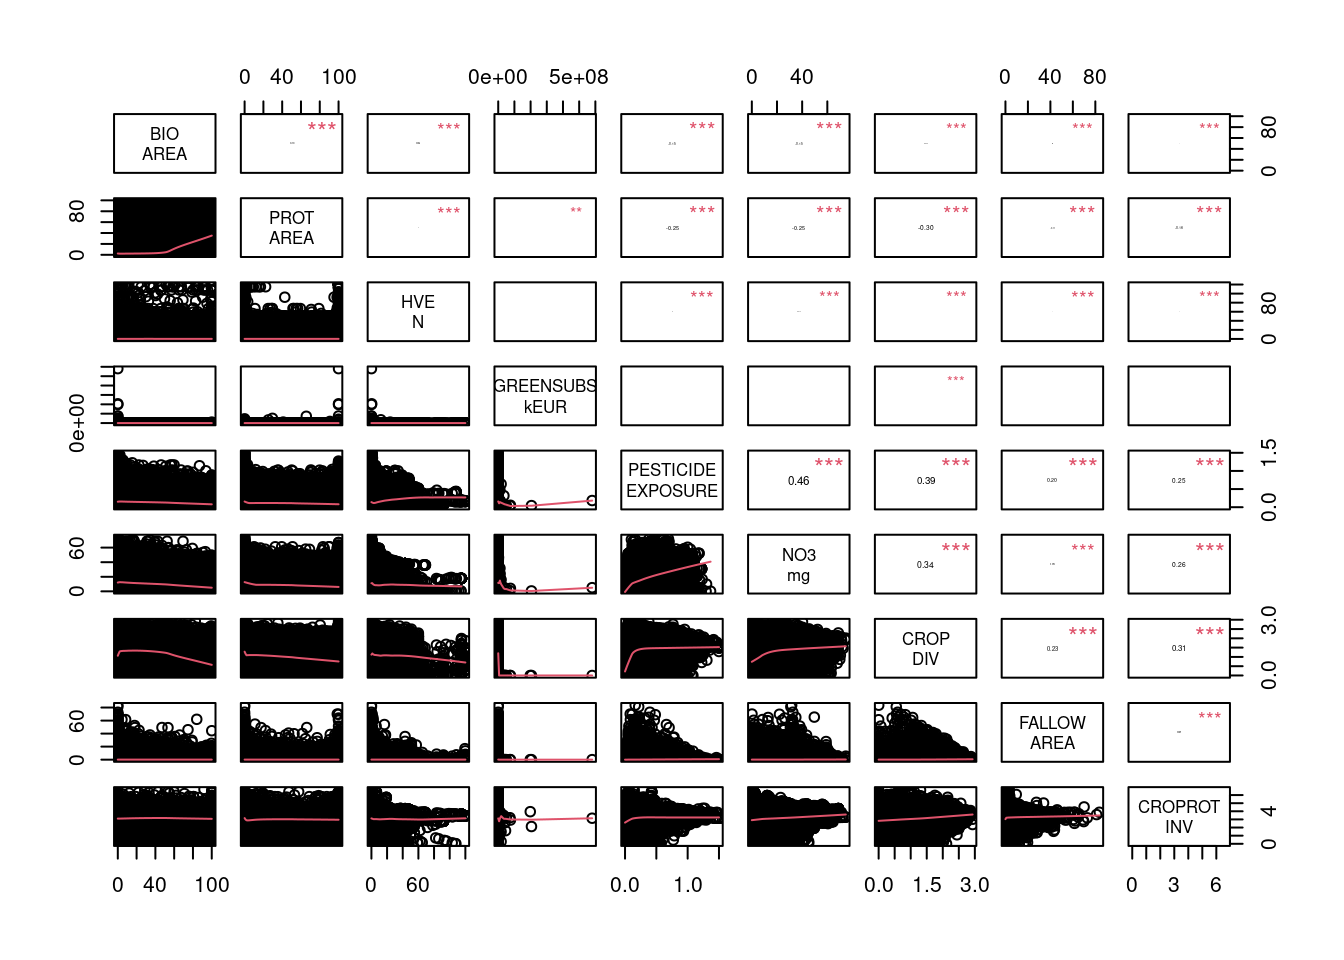
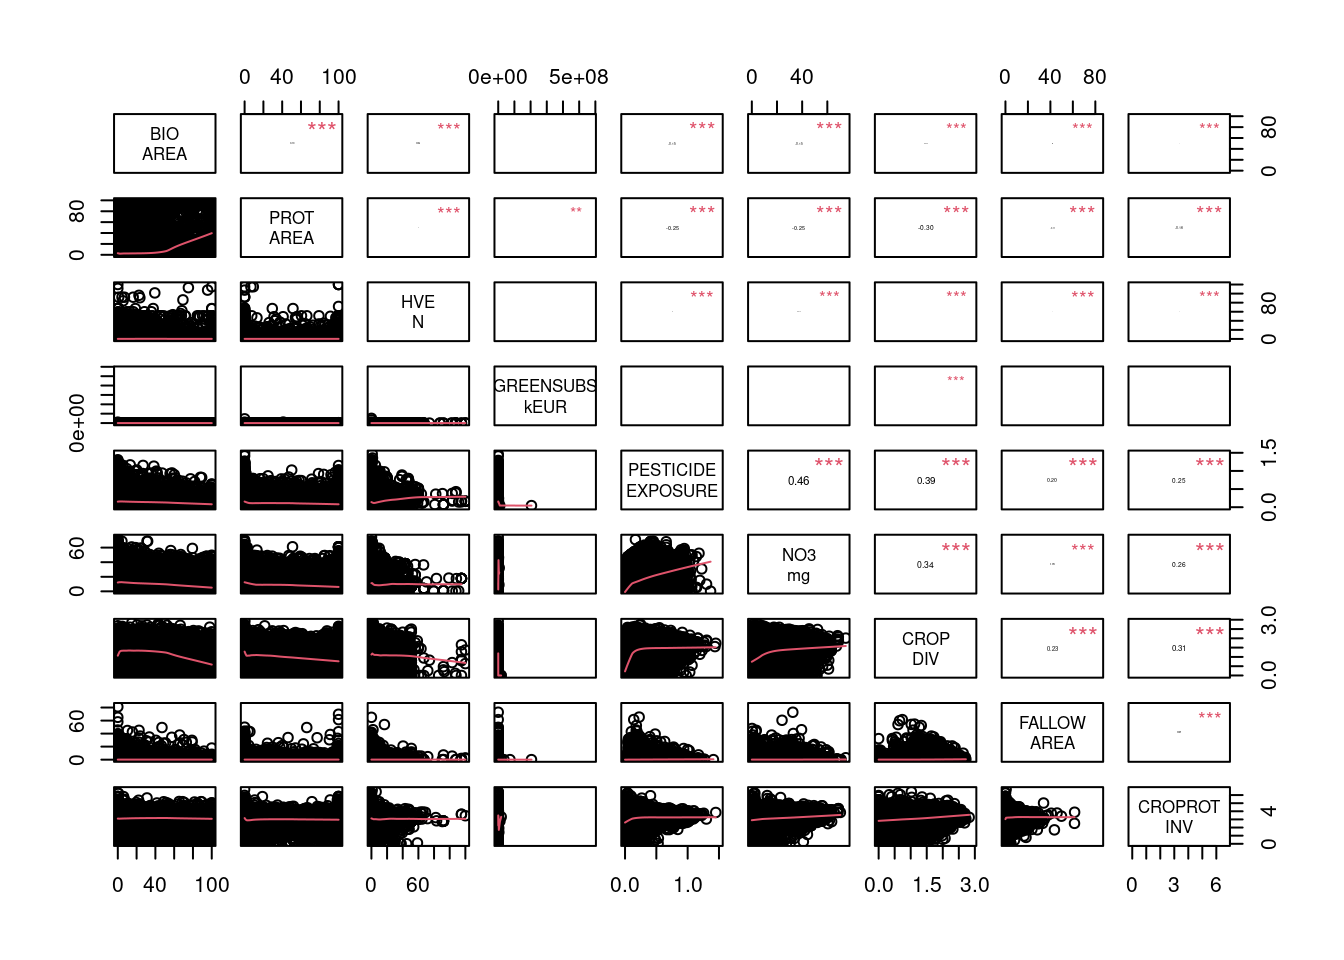
improve 04_political_stringency

diff --git a/docs/analysis/04_political_stringency.html b/docs/analysis/04_political_stringency.html
@@ -7,7 +7,7 @@
 <meta name="viewport" content="width=device-width, initial-scale=1.0, user-scalable=yes">
 
 <meta name="author" content="Romain Frelat">
-<meta name="dcterms.date" content="2026-06-29">
+<meta name="dcterms.date" content="2026-07-06">
 
 <title>Summary of the political stringency variables</title>
 <style>
@@ -119,7 +119,7 @@ ul.task-list li input[type="checkbox"] {
     <div>
     <div class="quarto-title-meta-heading">Published</div>
     <div class="quarto-title-meta-contents">
-      <p class="date">June 29, 2026</p>
+      <p class="date">July 6, 2026</p>
     </div>
   </div>
   
@@ -311,144 +311,96 @@ Figure&nbsp;4: Correlation among megatrends per maille of 1km
 <div id="tbl-numberba" class="cell quarto-float quarto-figure quarto-figure-center anchored">
 <figure class="quarto-float quarto-float-tbl figure">
 <figcaption class="quarto-float-caption-top quarto-float-caption quarto-float-tbl" id="tbl-numberba-caption-0ceaefa1-69ba-4598-a22c-09a6ac19f8ca">
-Table&nbsp;1: Number of NAs per variable and per spatial resolution
+Table&nbsp;1: Percentage of NAs per variable and per spatial resolution
 </figcaption>
 <div aria-describedby="tbl-numberba-caption-0ceaefa1-69ba-4598-a22c-09a6ac19f8ca">
 <div class="cell-output-display">
 <table class="cell caption-top table table-sm table-striped small">
 <colgroup>
-<col style="width: 16%">
-<col style="width: 7%">
-<col style="width: 10%">
-<col style="width: 10%">
-<col style="width: 12%">
-<col style="width: 9%">
-<col style="width: 11%">
-<col style="width: 9%">
-<col style="width: 11%">
+<col style="width: 33%">
+<col style="width: 13%">
+<col style="width: 18%">
+<col style="width: 17%">
+<col style="width: 17%">
 </colgroup>
 <thead>
 <tr class="header">
 <th style="text-align: left;"></th>
-<th style="text-align: right;">NAs_Commune</th>
-<th style="text-align: right;">NA_perc_Commune</th>
-<th style="text-align: right;">NAs_Maille_10km</th>
-<th style="text-align: right;">NA_perc_Maille_10km</th>
-<th style="text-align: right;">NAs_Maille_5km</th>
-<th style="text-align: right;">NA_perc_Maille_5km</th>
-<th style="text-align: right;">NAs_Maille_1km</th>
-<th style="text-align: right;">NA_perc_Maille_1km</th>
+<th style="text-align: right;">NA_Commune</th>
+<th style="text-align: right;">NA_Maille_10km</th>
+<th style="text-align: right;">NA_Maille_5km</th>
+<th style="text-align: right;">NA_Maille_1km</th>
 </tr>
 </thead>
 <tbody>
 <tr class="odd">
 <td style="text-align: left;">BIO_AREA_PCT_2024</td>
-<td style="text-align: right;">232</td>
 <td style="text-align: right;">0.7</td>
-<td style="text-align: right;">79</td>
 <td style="text-align: right;">1.3</td>
-<td style="text-align: right;">405</td>
 <td style="text-align: right;">1.8</td>
-<td style="text-align: right;">46381</td>
 <td style="text-align: right;">8.4</td>
 </tr>
 <tr class="even">
 <td style="text-align: left;">PROT_AREA_PCT_2026</td>
-<td style="text-align: right;">0</td>
 <td style="text-align: right;">0.0</td>
-<td style="text-align: right;">0</td>
 <td style="text-align: right;">0.0</td>
-<td style="text-align: right;">0</td>
 <td style="text-align: right;">0.0</td>
-<td style="text-align: right;">0</td>
 <td style="text-align: right;">0.0</td>
 </tr>
 <tr class="odd">
 <td style="text-align: left;">HVE_N_2024</td>
-<td style="text-align: right;">0</td>
 <td style="text-align: right;">0.0</td>
-<td style="text-align: right;">0</td>
 <td style="text-align: right;">0.0</td>
-<td style="text-align: right;">1</td>
 <td style="text-align: right;">0.0</td>
-<td style="text-align: right;">59</td>
 <td style="text-align: right;">0.0</td>
 </tr>
 <tr class="even">
 <td style="text-align: left;">GREENSUBS_kEUR_per_HA_2022</td>
-<td style="text-align: right;">264</td>
 <td style="text-align: right;">0.8</td>
-<td style="text-align: right;">80</td>
 <td style="text-align: right;">1.4</td>
-<td style="text-align: right;">430</td>
 <td style="text-align: right;">1.9</td>
-<td style="text-align: right;">47376</td>
 <td style="text-align: right;">8.5</td>
 </tr>
 <tr class="odd">
 <td style="text-align: left;">PESTICIDE_EXPOSURE_2022</td>
-<td style="text-align: right;">1</td>
 <td style="text-align: right;">0.0</td>
-<td style="text-align: right;">21</td>
 <td style="text-align: right;">0.4</td>
-<td style="text-align: right;">97</td>
 <td style="text-align: right;">0.4</td>
-<td style="text-align: right;">1778</td>
 <td style="text-align: right;">0.3</td>
 </tr>
 <tr class="even">
 <td style="text-align: left;">NO3_mg_per_l_2025</td>
-<td style="text-align: right;">13490</td>
 <td style="text-align: right;">38.8</td>
-<td style="text-align: right;">132</td>
 <td style="text-align: right;">2.2</td>
-<td style="text-align: right;">1617</td>
 <td style="text-align: right;">7.1</td>
-<td style="text-align: right;">119782</td>
 <td style="text-align: right;">21.6</td>
 </tr>
 <tr class="odd">
 <td style="text-align: left;">CROP_DIV_SHANNON_2023</td>
-<td style="text-align: right;">264</td>
 <td style="text-align: right;">0.8</td>
-<td style="text-align: right;">80</td>
 <td style="text-align: right;">1.4</td>
-<td style="text-align: right;">430</td>
 <td style="text-align: right;">1.9</td>
-<td style="text-align: right;">47374</td>
 <td style="text-align: right;">8.5</td>
 </tr>
 <tr class="even">
 <td style="text-align: left;">CROP_DOMINANT_2023</td>
-<td style="text-align: right;">264</td>
 <td style="text-align: right;">0.8</td>
-<td style="text-align: right;">80</td>
 <td style="text-align: right;">1.4</td>
-<td style="text-align: right;">430</td>
 <td style="text-align: right;">1.9</td>
-<td style="text-align: right;">47374</td>
 <td style="text-align: right;">8.5</td>
 </tr>
 <tr class="odd">
 <td style="text-align: left;">FALLOW_AREA_PCT_2023</td>
-<td style="text-align: right;">0</td>
 <td style="text-align: right;">0.0</td>
-<td style="text-align: right;">0</td>
 <td style="text-align: right;">0.0</td>
-<td style="text-align: right;">0</td>
 <td style="text-align: right;">0.0</td>
-<td style="text-align: right;">0</td>
 <td style="text-align: right;">0.0</td>
 </tr>
 <tr class="even">
 <td style="text-align: left;">CROPROT_INV_SIM_1523</td>
-<td style="text-align: right;">2793</td>
 <td style="text-align: right;">8.0</td>
-<td style="text-align: right;">172</td>
 <td style="text-align: right;">2.9</td>
-<td style="text-align: right;">969</td>
 <td style="text-align: right;">4.2</td>
-<td style="text-align: right;">41067</td>
 <td style="text-align: right;">7.4</td>
 </tr>
 </tbody>
